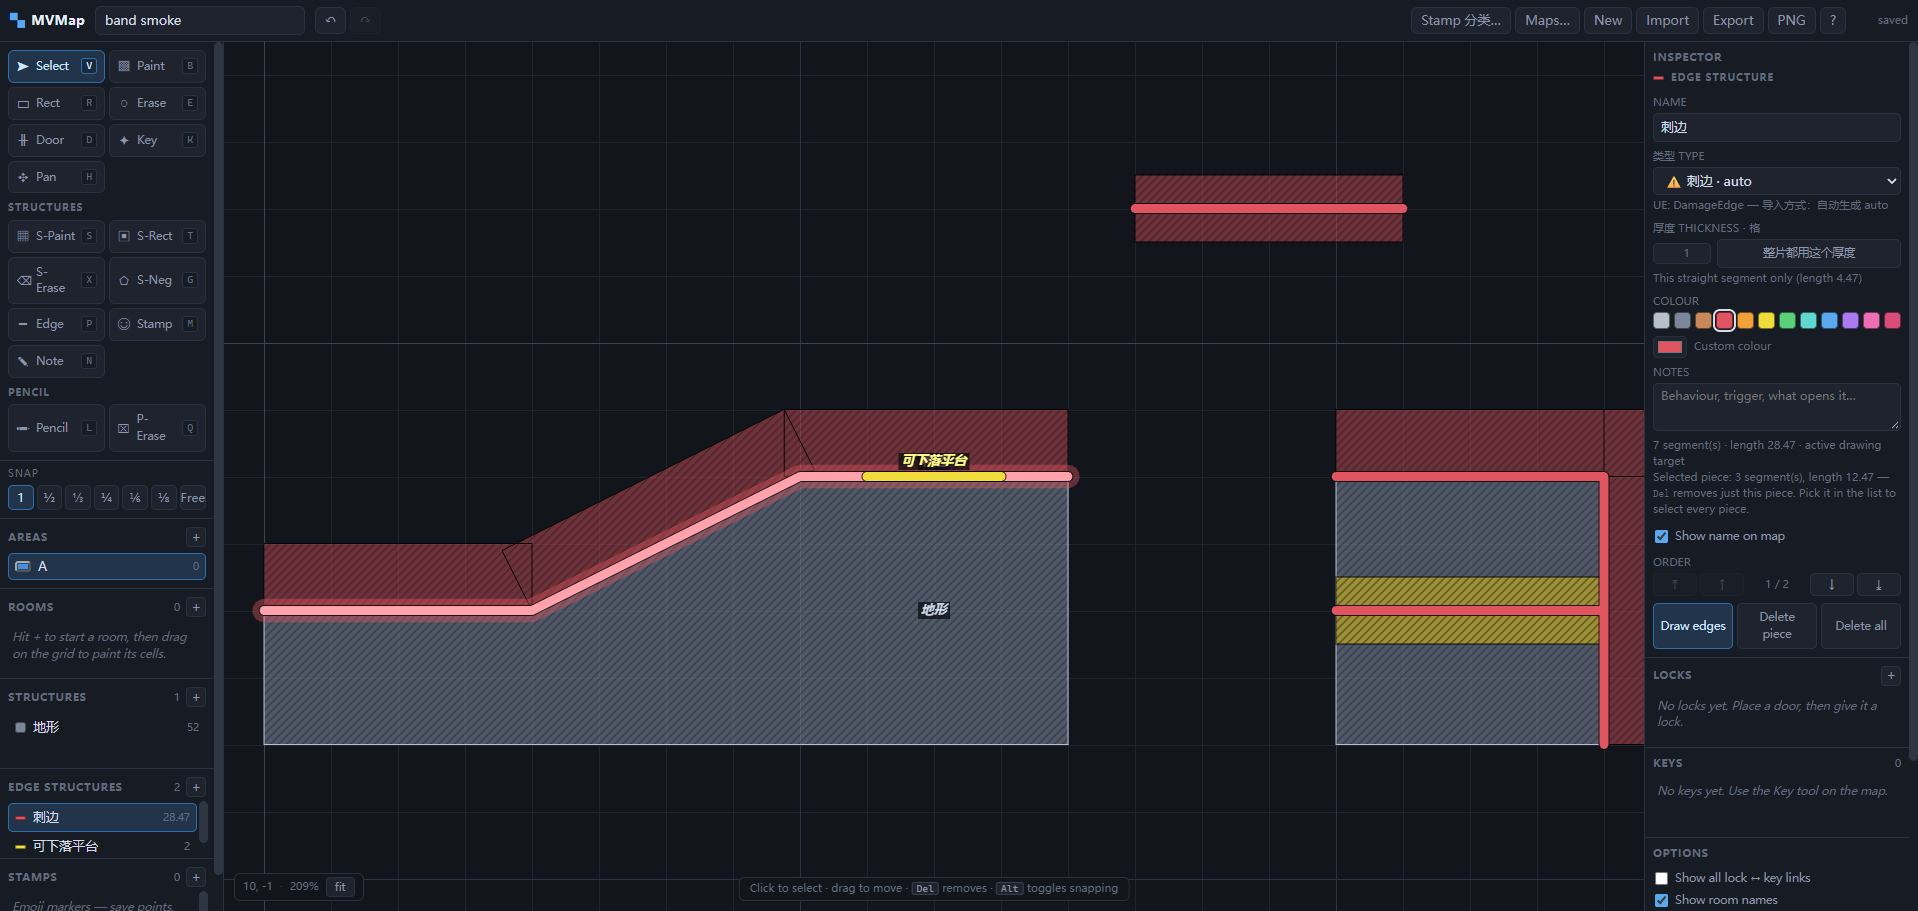
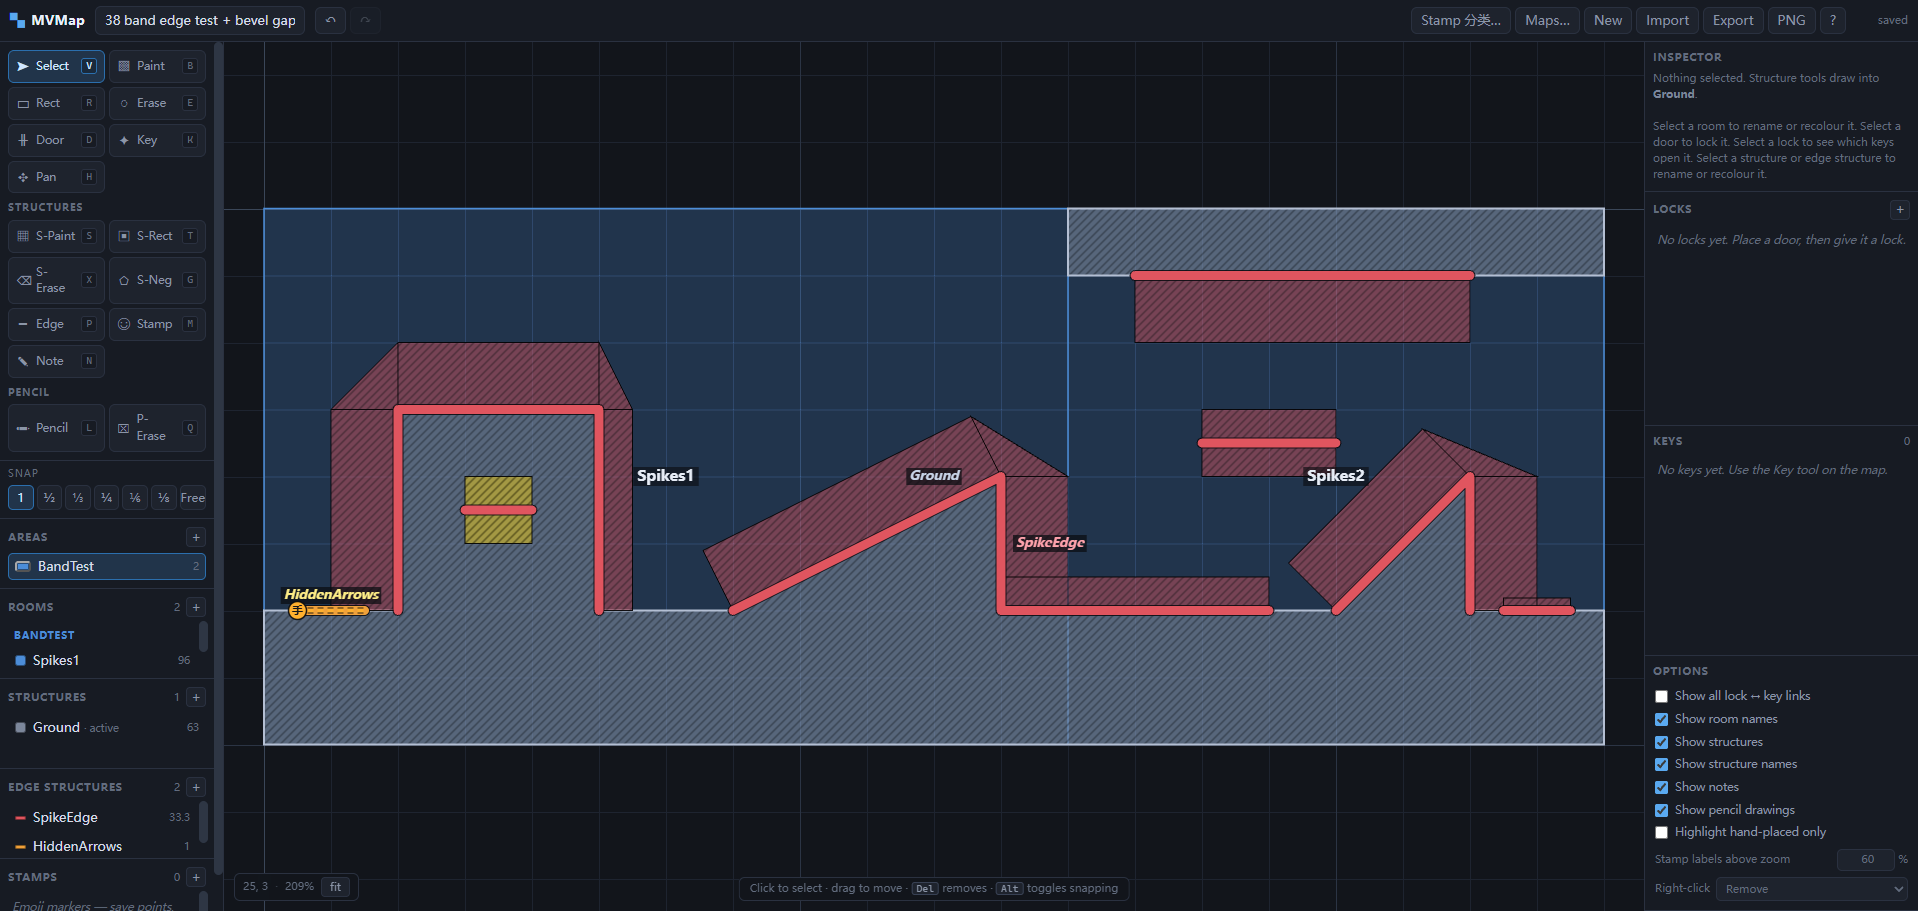
Screenshots of band edges after the bevel change: the editor, and the same map imported into UE

diff --git a/README.md b/README.md
@@ -68,7 +68,7 @@ So the interesting part of the design isn't the level geometry. It's the depende
 
 **Band edges (spikes, 刺边)** — an edge type with a thickness: trace the surface of the terrain (`Landscape`, slopes cut with S-Neg included) and the band grows from the line into the empty side, drawn hatched in the type's colour. With such an element active, the Edge tool shows a **厚度 Thickness** box (cells, starting at the type's default, 1 for 刺边); new segments take that value. The band is what the UE importer turns into spikes (it then shrinks the outside a little): a line with terrain on one side grows its full thickness into the other; one in the air grows half each way; one with terrain on both sides is drawn yellow and won't be imported. Where two segments end at the same point on a convex corner, both bands extend to a sharp point; when that point would reach more than twice a segment's thickness past it, the corner is cut flat instead (a triangle fills the gap). Concave corners and points where three segments meet are left as they are. Click a straight segment, or inside its band, to see its thickness in the inspector: changing it changes just that segment, **整片都用这个厚度** gives it to the whole piece. Band edges and other edge structures (a platform under the spikes) can share a line without taking it from each other; erasing cuts both.
 
-![刺边 along a ground, a slope and a ledge top (convex corner joined, concave corner overlapping), a platform sharing the ledge line, a band in the air centred on its line, and a block with a thicker right side and a yellow segment inside the terrain](docs/images/band-edges.png)
+![刺边 along a ground, a slope and a ledge top (convex corners bevelled, concave corner overlapping), a platform sharing the ledge line, a band in the air centred on its line, and a block with a thicker right side and a yellow segment inside the terrain](docs/images/band-edges.png)
 
 Both kinds get their own list in the left rail, an inspector with name, colour (palette or custom picker) and notes, and can be selected and dragged with the Select tool. Clicking on the map selects only the connected *piece* under the pointer — dragging moves it (snapped) and `Del` deletes it — so the separate parts of one structure stay independent (pick the structure in its list to select every piece): rectangles connect along a side (corner contact doesn't count), and segments connect when they share any point. Toggle them with **Show structures** / **Show structure names**.
 
